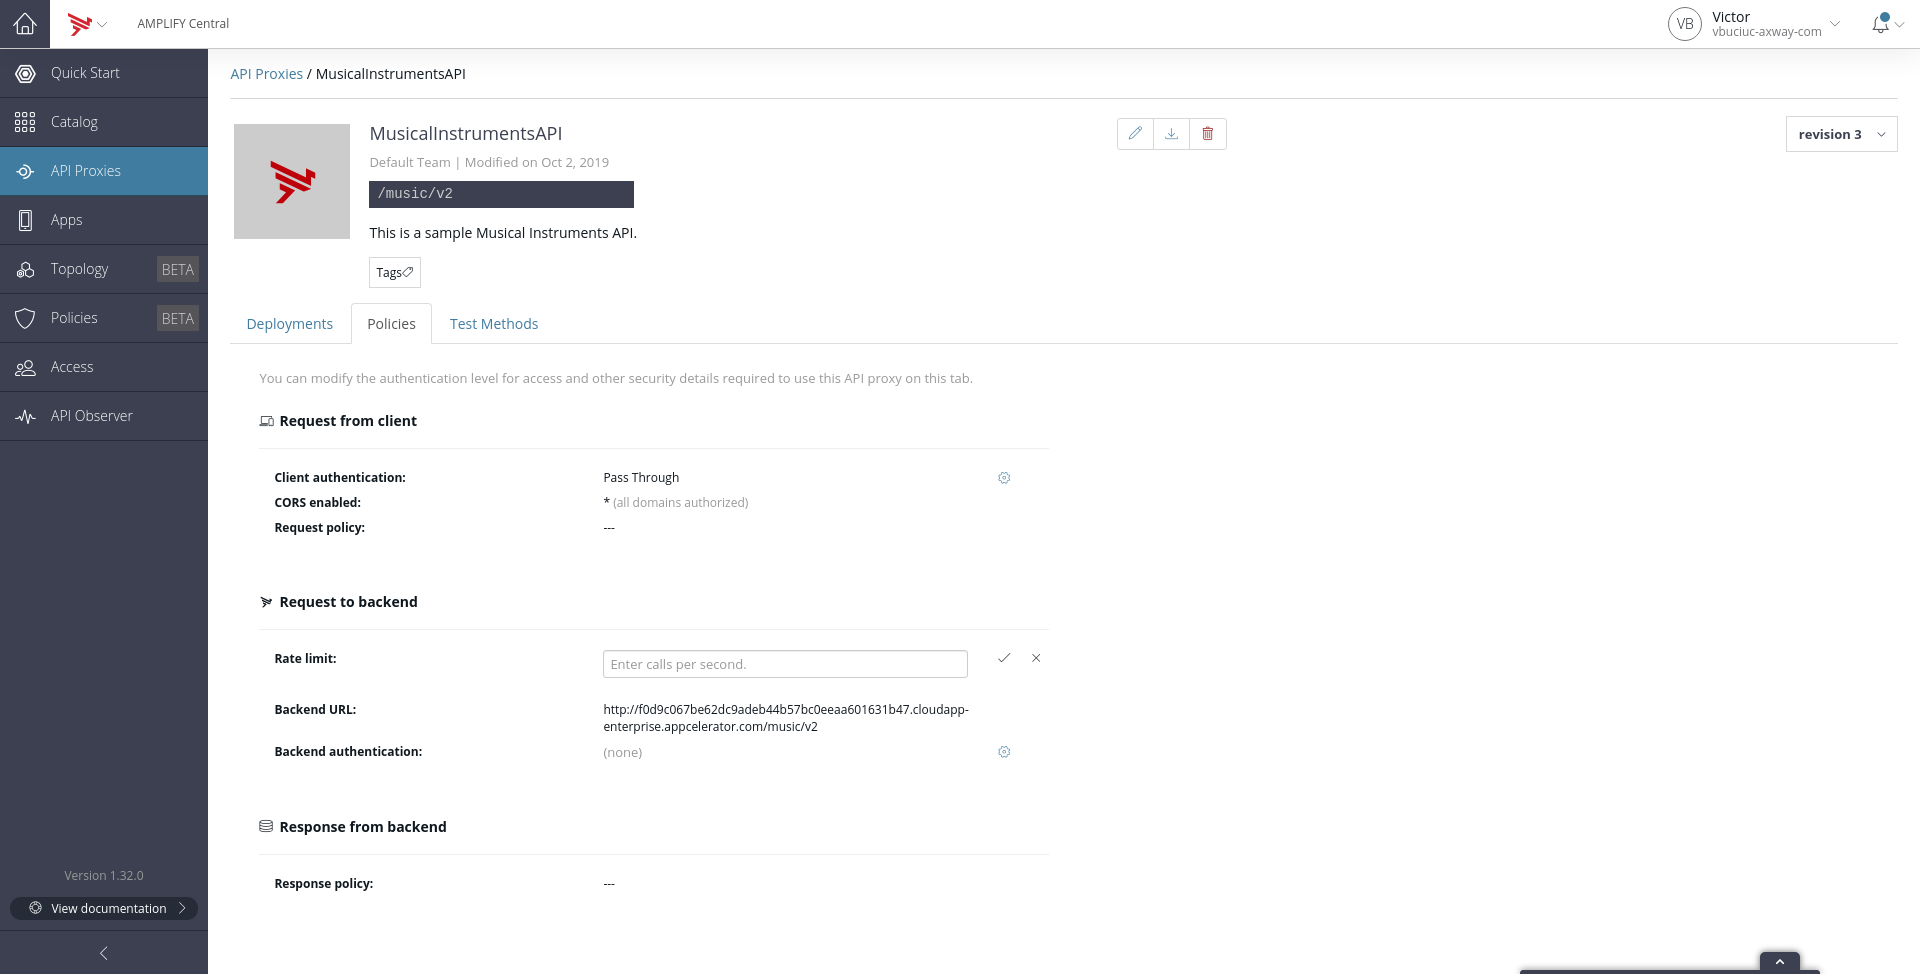
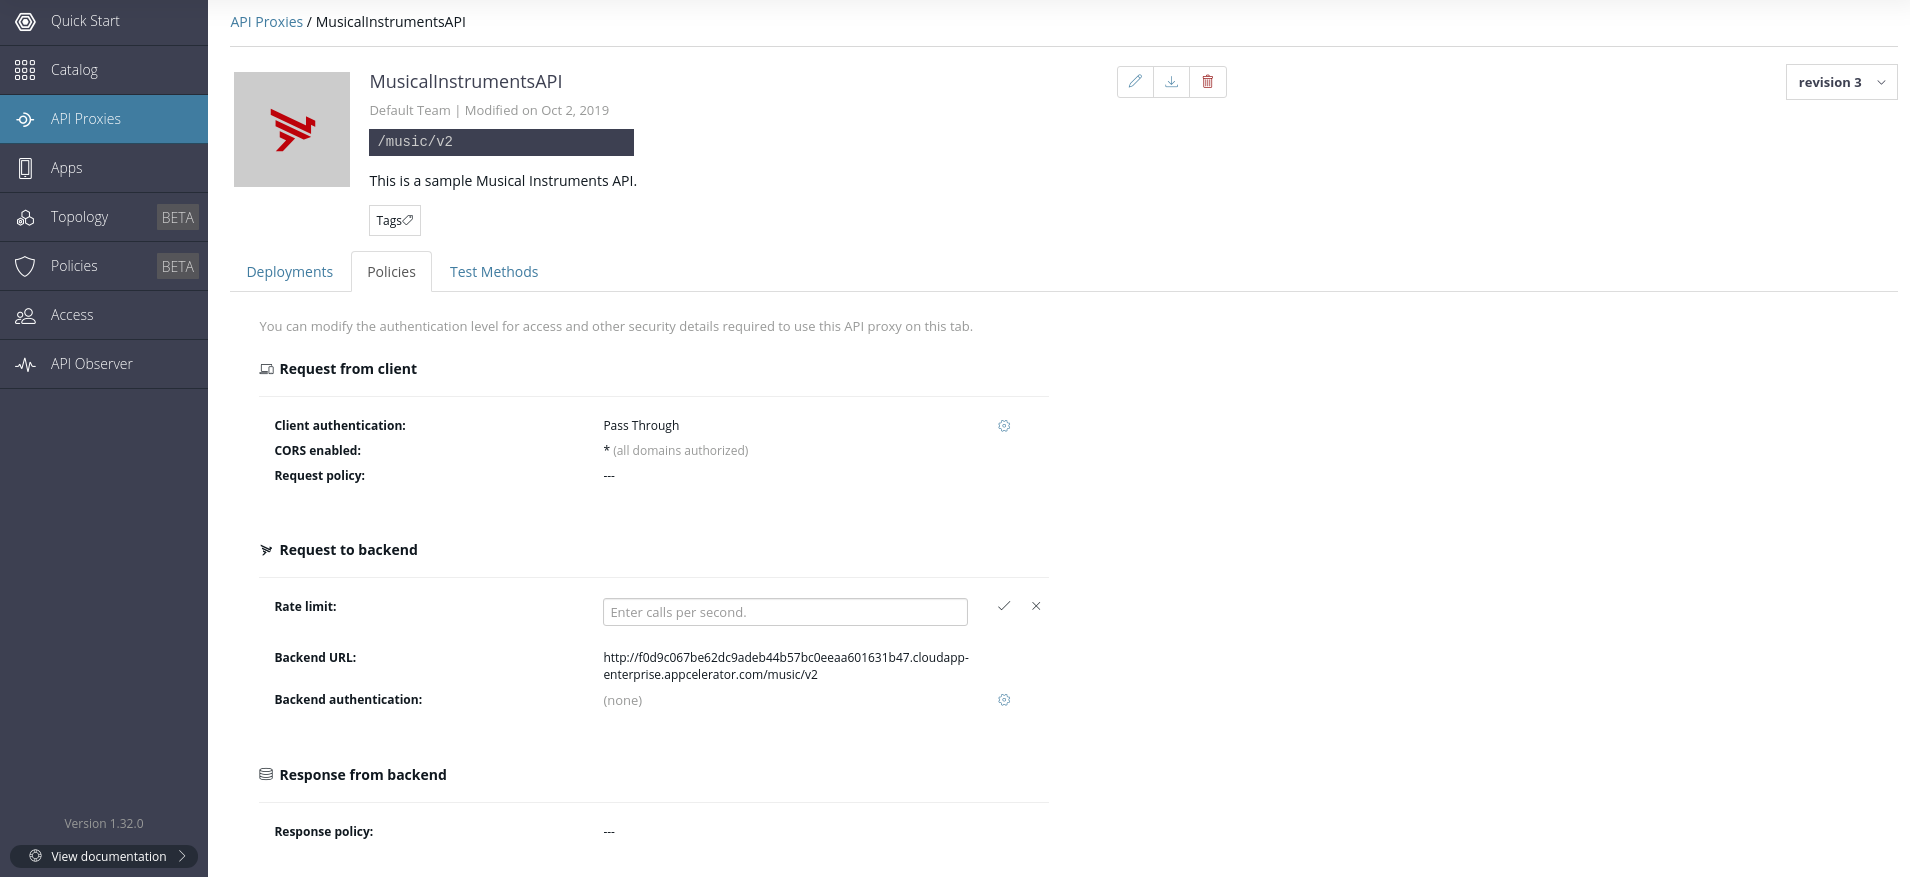
fix markdown linter issues and crop graphics

diff --git a/content/en/docs/central/proxy_rate_limit.md b/content/en/docs/central/proxy_rate_limit.md
@@ -1,33 +1,32 @@
 ---
-title: Rate Limit an API
-linkTitle: Rate Limit an API
+title: Rate limit an API
+linkTitle: Rate limit an API
 weight: 5
 date: 2019-09-19
 description: Learn how to apply a rate limit configuration to your API.
 ---
 
-*Estimated reading time: 5 minutes*
+*Estimated reading time*: 5 minutes
 
 ## Before you start
 
-- You will need an administrator account for AMPLIFY Central
-- Learn how to import your API as an API proxy in AMPLIFY Central (see [Register an API](/docs/central/quickstart/#register-an-api))
-- Learn how to use the AMPLIFY CLI to manage an API proxy (see [Manage an API proxy using AMPLIFY CLI](/docs/central/cli_proxy_flow))
+* You will need an administrator account for AMPLIFY Central
+* Learn how to import your API as an API proxy in AMPLIFY Central (see [Register an API](/docs/central/quickstart/#register-an-api))
+* Learn how to use the AMPLIFY CLI to manage an API proxy (see [Manage an API proxy using AMPLIFY CLI](/docs/central/cli_proxy_flow))
 
 ## Objectives
 
 Learn how to apply a rate limit configuration to your API:
 
-- Understand what API rate limiting is and how it can be useful
-- Configure and test rate limiting on your API using the AMPLIFY Central UI
-- Configure and test rate limiting on your API using the AMPLIFY CLI
+* Understand what API rate limiting is and how it can be useful
+* Configure and test rate limiting on your API using the AMPLIFY Central UI
+* Configure and test rate limiting on your API using the AMPLIFY CLI
 
 ## What is API rate limiting?
 
 Rate limiting is a way to protect the backend service underlying (or implementing) your API. The use of resources underlying your API are protected from more aggressive consumer activity (or spikes in total API calls) which could overwhelm the backend service capacity.
 
 API providers typically measure processing limits in Transactions Per Second (TPS). Rate limiting at the API proxy level is a way to enforce a maximum TPS for all of your API consumers.
-
 
 ### AMPLIFY Central API rate limiting
 
@@ -41,8 +40,8 @@ To begin, [register an api proxy](/docs/central/quickstart/#register-an-api).
 
 ### Set a proxy rate limit on your API
 
-1. Navigate to the **API Proxies** tab. 
-2. Click the API proxy name to open the API proxy details page. 
+1. Navigate to the **API Proxies** tab.
+2. Click the API proxy name to open the API proxy details page.
 3. On the **Policies** tab, edit the rate limit policy under the **Request to backend** section. 
 4. Enter the desired TPS and click the checkbox to save the configuration.
 
@@ -50,14 +49,14 @@ To begin, [register an api proxy](/docs/central/quickstart/#register-an-api).
 
 A new revision with the desired rate limit configuration is created. Deploy the new revision for the configuration to take effect.
 
-#### Test the rate limit configuration
+### Test the rate limit configuration
 
-##### Simple test with docker and curl
+#### Simple test with docker and curl
 
 This sample test uses curl packaged in a docker container to start a few simultaneus API transactions and displays the return status for each attempt. Replace `<your_url_here>` with an endpoint of your proxy. 
 
 ```
-$ docker run curlimages/curl:7.66.0 -s -o /dev/null -w "%{url_effective}:%{http_code}\n" -Z "<your_url_here>#[1-5]"
+docker run curlimages/curl:7.66.0 -s -o /dev/null -w "%{url_effective}:%{http_code}\n" -Z "<your_url_here>#[1-5]"
 ```
 
 Example run for the sample API with a rate limit of 2 TPS:
@@ -71,9 +70,9 @@ https://test-e4f77cd969cdaf3a0169ce16c8320000.apicentral.axwayamplify.com/music/
 https://test-e4f77cd969cdaf3a0169ce16c8320000.apicentral.axwayamplify.com/music/v2/instruments#5:200
 ```
 
-##### Constant traffic test
+#### Constant traffic test
 
-[k6](https://docs.k6.io/docs/welcome) is a testing tool that can help exemplify a scenario closer to how your API will be used in the real world.
+[K6](https://docs.k6.io/docs/welcome) is a testing tool that can help exemplify a scenario closer to how your API will be used in the real world.
 
 K6 is configured using the Javascript language. Save the follwing script as `rate-limit-test.js`.
 
@@ -101,17 +100,18 @@ export default function() {
 }
 ```
 
-Using the dockerised version of k6 we'll run a test mimicking 20 users doing 20 TPS against your API proxy for 30 seconds. Replace `<your_url_here>` with an endpoint of your proxy.
+Using the dockerised version of K6 we'll run a test mimicking 20 users doing 20 TPS against your API proxy for 30 seconds. Replace `<your_url_here>` with an endpoint of your proxy.
 
 ```
-docker run -i loadimpact/k6 run - -e TEST_URL="<your_url_here>" --rps 20 -u 20 -m 20 -d 30s < rate-limit-test.js
+docker run -i loadimpact/k6 run * -e TEST_URL="<your_url_here>" --rps 20 -u 20 -m 20 -d 30s < rate-limit-test.js
 ```
 
 Sample run against a proxy with a 5 TPS rate limit.
 
 ```
-$ docker run -i loadimpact/k6 run - -e TEST_URL="https://test-e4f77cd969cdaf3a0169ce16c8320000.apicentral.axwayamplify.com/music/v2/instruments" --rps 20 -u 20 -m 20 -d 30 < rate-limit-test.js
+docker run -i loadimpact/k6 run * -e TEST_URL="https://test-e4f77cd969cdaf3a0169ce16c8320000.apicentral.axwayamplify.com/music/v2/instruments" --rps 20 -u 20 -m 20 -d 30 < rate-limit-test.js
 ```
+
 It produces the final report:
 
 ```
@@ -137,8 +137,8 @@ Notice the passed rate closely matching the enforced rate limit.
 
 ### Remove a proxy rate limit
 
-1. Navigate to the **API Proxies** tab. 
-2. Click the API proxy name to open the API proxy details page. 
+1. Navigate to the **API Proxies** tab.
+2. Click the API proxy name to open the API proxy details page.
 3. On the **Policies** tab, edit the rate limit policy under the **Request to backend** section.
 4. Clear the text field and click the checkbox to save the configuration.
 

diff --git a/content/en/docs/central/overview.md b/content/en/docs/central/overview.md
@@ -34,7 +34,7 @@ You can also secure your API with a JWT client authentication policy. To learn h
 
 Apply a rate limit policy to limit the usage of your API.
 
-To learn how to to apply a rate limit configuration to your API, see [Rate Limit an API](/docs/central/proxy_rate_limit/).
+To learn how to to apply a rate limit configuration to your API, see [Rate limit an API](/docs/central/proxy_rate_limit/).
 
 ## DevOps integration
 
